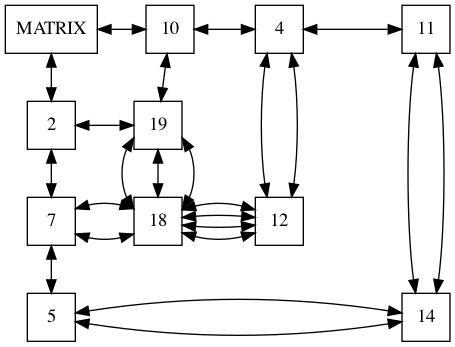
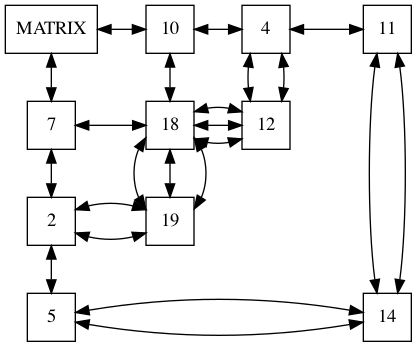
insertion fixed at z axis

diff --git a/sparse_matrix/matrix.cpp b/sparse_matrix/matrix.cpp
@@ -14,9 +14,9 @@ using namespace std;
 
 void Matrix::add(int x, int y, int value)
 {
-    if(SearchX(x) == false)
+    if(SearchX(x) == NULL)
         addX(x);
-    if(SearchY(y) == false)
+    if(SearchY(y) == NULL)
         addY(y);
     insert(x, y, value);
 }
@@ -72,7 +72,7 @@ void Matrix::addY(int y)
     }
 }
 
-bool Matrix::SearchX(int x)
+Node* Matrix::SearchX(int x)
 {
     Node* p = header;
     while(p -> getRight() != NULL)
@@ -80,13 +80,13 @@ bool Matrix::SearchX(int x)
         p = p -> getRight();
         if(p -> getData() == x)
         {
-            return true;
+            return p;
         }
     }
-    return false;
+    return nullptr;
 }
 
-bool Matrix::SearchY(int y)
+Node* Matrix::SearchY(int y)
 {
     Node* p = header;
     while(p -> getDown() != NULL)
@@ -94,116 +94,186 @@ bool Matrix::SearchY(int y)
         p = p -> getDown();
         if(p -> getData() == y)
         {
-            return true;
+            return p;
         }
     }
-    return false;
+    return nullptr;
 }
 
 void Matrix::insert(int x, int y, int value)
 {
     Node* p = new Node(value);
-    Node* x_header = header;
-    Node* y_header = header;
+    Node* x_header;
+    Node* y_header;
     
-    while(x_header -> getRight() != NULL)
+    x_header = SearchX(x);
+    y_header = SearchY(y);
+    
+    // x axis insertion
+    
+    if(x_header -> getDown() == NULL)
     {
-        x_header = x_header -> getRight();
-        if(x_header -> getData() == x)
+        x_header -> setDown(p);
+        p -> setUp(x_header);
+    }
+    else if(y_header -> getDown() == NULL)
+    {
+        Node* aux = x_header -> getDown();
+        while(aux -> getDown() != NULL)
         {
-            // Insert first
-            if(x_header -> getDown() == NULL)
+            aux = aux -> getDown();
+        }
+        if(!verifyY(y, aux, p))
+        {
+            aux -> setDown(p);
+            p -> setUp(aux);
+        }
+    } // Insert Mid.
+    else
+    {
+        Node* aux = x_header;
+        do{
+            aux = aux -> getDown();
+            if(!verifyY(y, aux, p))
             {
-                x_header -> setDown(p);
-                p -> setUp(x_header);
-            }
-            else
-            {
-                // Insert mid
-                Node* aux = x_header -> getDown();
-                y_header = aux -> getLeft();
-                while(y_header -> getLeft() != NULL)
+                Node* aux_y = aux -> getLeft();
+                while(aux_y -> getLeft() != NULL)
                 {
-                    y_header = y_header -> getLeft();
+                    aux_y = aux_y -> getLeft();
                 }
-                while(y_header -> getUp() != NULL)
+                while(aux_y -> getUp() != NULL)
                 {
-                    if(y_header ->getData() == y)
+                    if(aux_y -> getData() == y)
                     {
                         p -> setDown(aux);
                         p -> setUp(aux -> getUp());
                         aux -> getUp() -> setDown(p);
-                        aux -> setUp(aux);
+                        aux -> setUp(p);
                         break;
                     }
-                    y_header = y_header -> getUp();
-                }
-                if(p -> getUp() == NULL && p -> getBack() == NULL)
-                {
-                    aux -> setDown(p);
-                    p -> setUp(aux);
-                    break;
+                    aux_y = aux_y -> getUp();
                 }
             }
-        }
+        }while(aux -> getDown() != NULL && p-> getUp() == NULL);
         
+        if(p -> getUp() == NULL && p -> getFront() == NULL)
+        {
+            aux -> setDown(p);
+            p -> setUp(aux);
+        }
     }
     
-    if(p -> getBack() != NULL)
+    if(p -> getFront() != NULL) // return if item is already inserted.
     {
         return;
     }
-    y_header = header;
-
-    while(y_header -> getDown() != NULL)
+    
+    // y axis insertion
+    
+    if(y_header -> getRight() == NULL)
     {
-        y_header = y_header -> getDown();
-        if(y_header -> getData() == y)
+        y_header -> setRight(p);
+        p -> setLeft(y_header);
+    }
+    else if(x_header -> getRight() == NULL)
+    {
+        Node* aux = y_header -> getRight();
+        while(aux -> getRight() != NULL)
         {
-            if(y_header -> getRight() == NULL)
-            {
-                y_header -> setRight(p);
-                p -> setLeft(y_header);
-            }
-            else
-            {
-                Node* aux2 = y_header -> getRight();
-                x_header = aux2 -> getUp();
-                while(x_header -> getUp() != NULL)
-                {
-                    x_header = x_header -> getUp();
-                }
-                while(x_header -> getLeft() != NULL)
-                {
-                    if(x_header -> getData() == x)
-                    {
-                        p -> setRight(aux2);
-                        p -> setLeft(aux2 -> getLeft());
-                        aux2 -> getLeft() -> setRight(p);
-                        aux2 -> setLeft(p);
-                        break;
-                    }
-                    x_header = x_header -> getLeft();
-                }
-                if(p -> getLeft() == NULL && p -> getBack() == NULL)
-                {
-                    aux2 -> setRight(p);
-                    p -> setLeft(aux2);
-                    break;
-                }
-            }
+            aux = aux -> getRight();
+        }
+        if(!verifyX(x, aux, p))
+        {
+            aux -> setRight(p);
+            p -> setLeft(aux);
         }
     }
-    cout <<" "<< endl;
-    if(p->getLeft()!=NULL)
-        cout << " left: " << p->getLeft()->getData();
-    if(p->getRight()!=NULL)
-        cout << " right: " << p->getRight()->getData();
-    if(p->getUp()!=NULL)
-        cout << " up: " << p->getUp()->getData()<<endl;
-    if(p->getDown()!=NULL)
-        cout << " down: " << p->getDown()->getData();
-    
+    else
+    {
+        Node* aux = y_header; // Insert mid.
+        do
+        {
+            aux = aux -> getRight();
+            if(!verifyX(x, aux, p))
+            {
+                Node* x_aux = aux -> getUp();
+                while(x_aux -> getUp() != NULL)
+                {
+                    x_aux = x_aux -> getUp();
+                }
+                while(x_aux -> getLeft() != NULL)
+                {
+                    if(x_aux -> getData() == x)
+                    {
+                        p -> setRight(aux);
+                        p -> setLeft(aux -> getLeft());
+                        aux -> getLeft() -> setRight(p);
+                        aux -> setLeft(p);
+                        break;
+                    }
+                    x_aux = x_aux -> getLeft();
+                }
+                
+            }
+            
+        }while(aux -> getRight() != NULL && p -> getLeft() == NULL);
+        
+        if(p -> getLeft() == NULL &&  p -> getFront() == NULL)
+        {
+            aux -> setRight(p);
+            p -> setLeft(aux);
+        }
+    }
+}
+
+
+
+
+
+bool Matrix::verifyY(int value, Node* start,Node* nodeValue)
+{
+    Node* aux_y = start -> getLeft();
+    while(aux_y -> getLeft() != NULL)
+    {
+        aux_y = aux_y -> getLeft();
+    }
+    if(aux_y -> getData() == value)
+    {
+        while(start -> getBack() != NULL)
+        {
+            start = start -> getBack();
+        }
+        start -> setBack(nodeValue);
+        nodeValue -> setFront(start);
+        cout << "Front:" << start -> getData() << endl;
+        cout << "Back:" << start -> getBack() -> getData() << endl;
+
+        return true;
+    }
+    return false;
+}
+
+
+bool Matrix::verifyX(int value, Node* start,Node* nodeValue)
+{
+    Node* aux_x = start -> getUp();
+    while(aux_x -> getUp() != NULL)
+    {
+        aux_x = aux_x -> getUp();
+    }
+    if(aux_x -> getData() == value)
+    {
+        while(start -> getBack() != NULL)
+        {
+            start = start -> getBack();
+        }
+        start -> setBack(nodeValue);
+        nodeValue -> setFront(start);
+        cout << "Front:" << start -> getData() << endl;
+        cout << "Back:" << start -> getBack() -> getData() << endl;
+        return true;
+    }
+    return false;
 }
 
 
@@ -213,7 +283,6 @@ Node* Matrix::SearchValue(int x, int y)
     Node* x_header = header;
     Node* y_header = header ;
     Node* aux = nullptr; // Recorre en posicion x hacia abajo, conforme baja la cabecera y.
-    
     while(x_header -> getRight() != NULL)
     {
         x_header = x_header -> getRight();
@@ -224,16 +293,18 @@ Node* Matrix::SearchValue(int x, int y)
             {
                 y_header = y_header -> getDown();
                 aux = aux -> getDown();
-                if(y_header -> getData() == y || aux -> getDown() == NULL)
+                
+                if(y_header -> getData() == y || aux -> getDown()  == NULL )
                 {
                     p = aux;
                     return p;
                 }
+                
             }
         }
         
     }
-    return 0;
+    return nullptr;
 }
 
 void Matrix::printX()

diff --git a/sparse_matrix/main.cpp b/sparse_matrix/main.cpp
@@ -12,10 +12,13 @@
 int main(int argc, const char * argv[]) {
     Matrix matrix;
     
+    matrix.add(10,7,18);
+    matrix.add(10,7,33);
     matrix.add(10, 2, 19);
     matrix.add(4, 7, 12);
     matrix.add(11, 5, 14);
-    matrix.add(10,7,18);
+    matrix.add(11, 5, 17);
+    
     matrix.getDot();
     matrix.printY();
     return 0;

diff --git a/sparse_matrix/matrix.hpp b/sparse_matrix/matrix.hpp
@@ -102,8 +102,10 @@ public:
     void showGraph();
     void printY();
     void printX();
-    bool SearchX(int);
-    bool SearchY(int);
+    Node* SearchX(int);
+    Node* SearchY(int);
+    bool verifyX(int,Node*,Node*);
+    bool verifyY(int,Node*,Node*);
     Node* SearchValue(int,int);
 };
 
